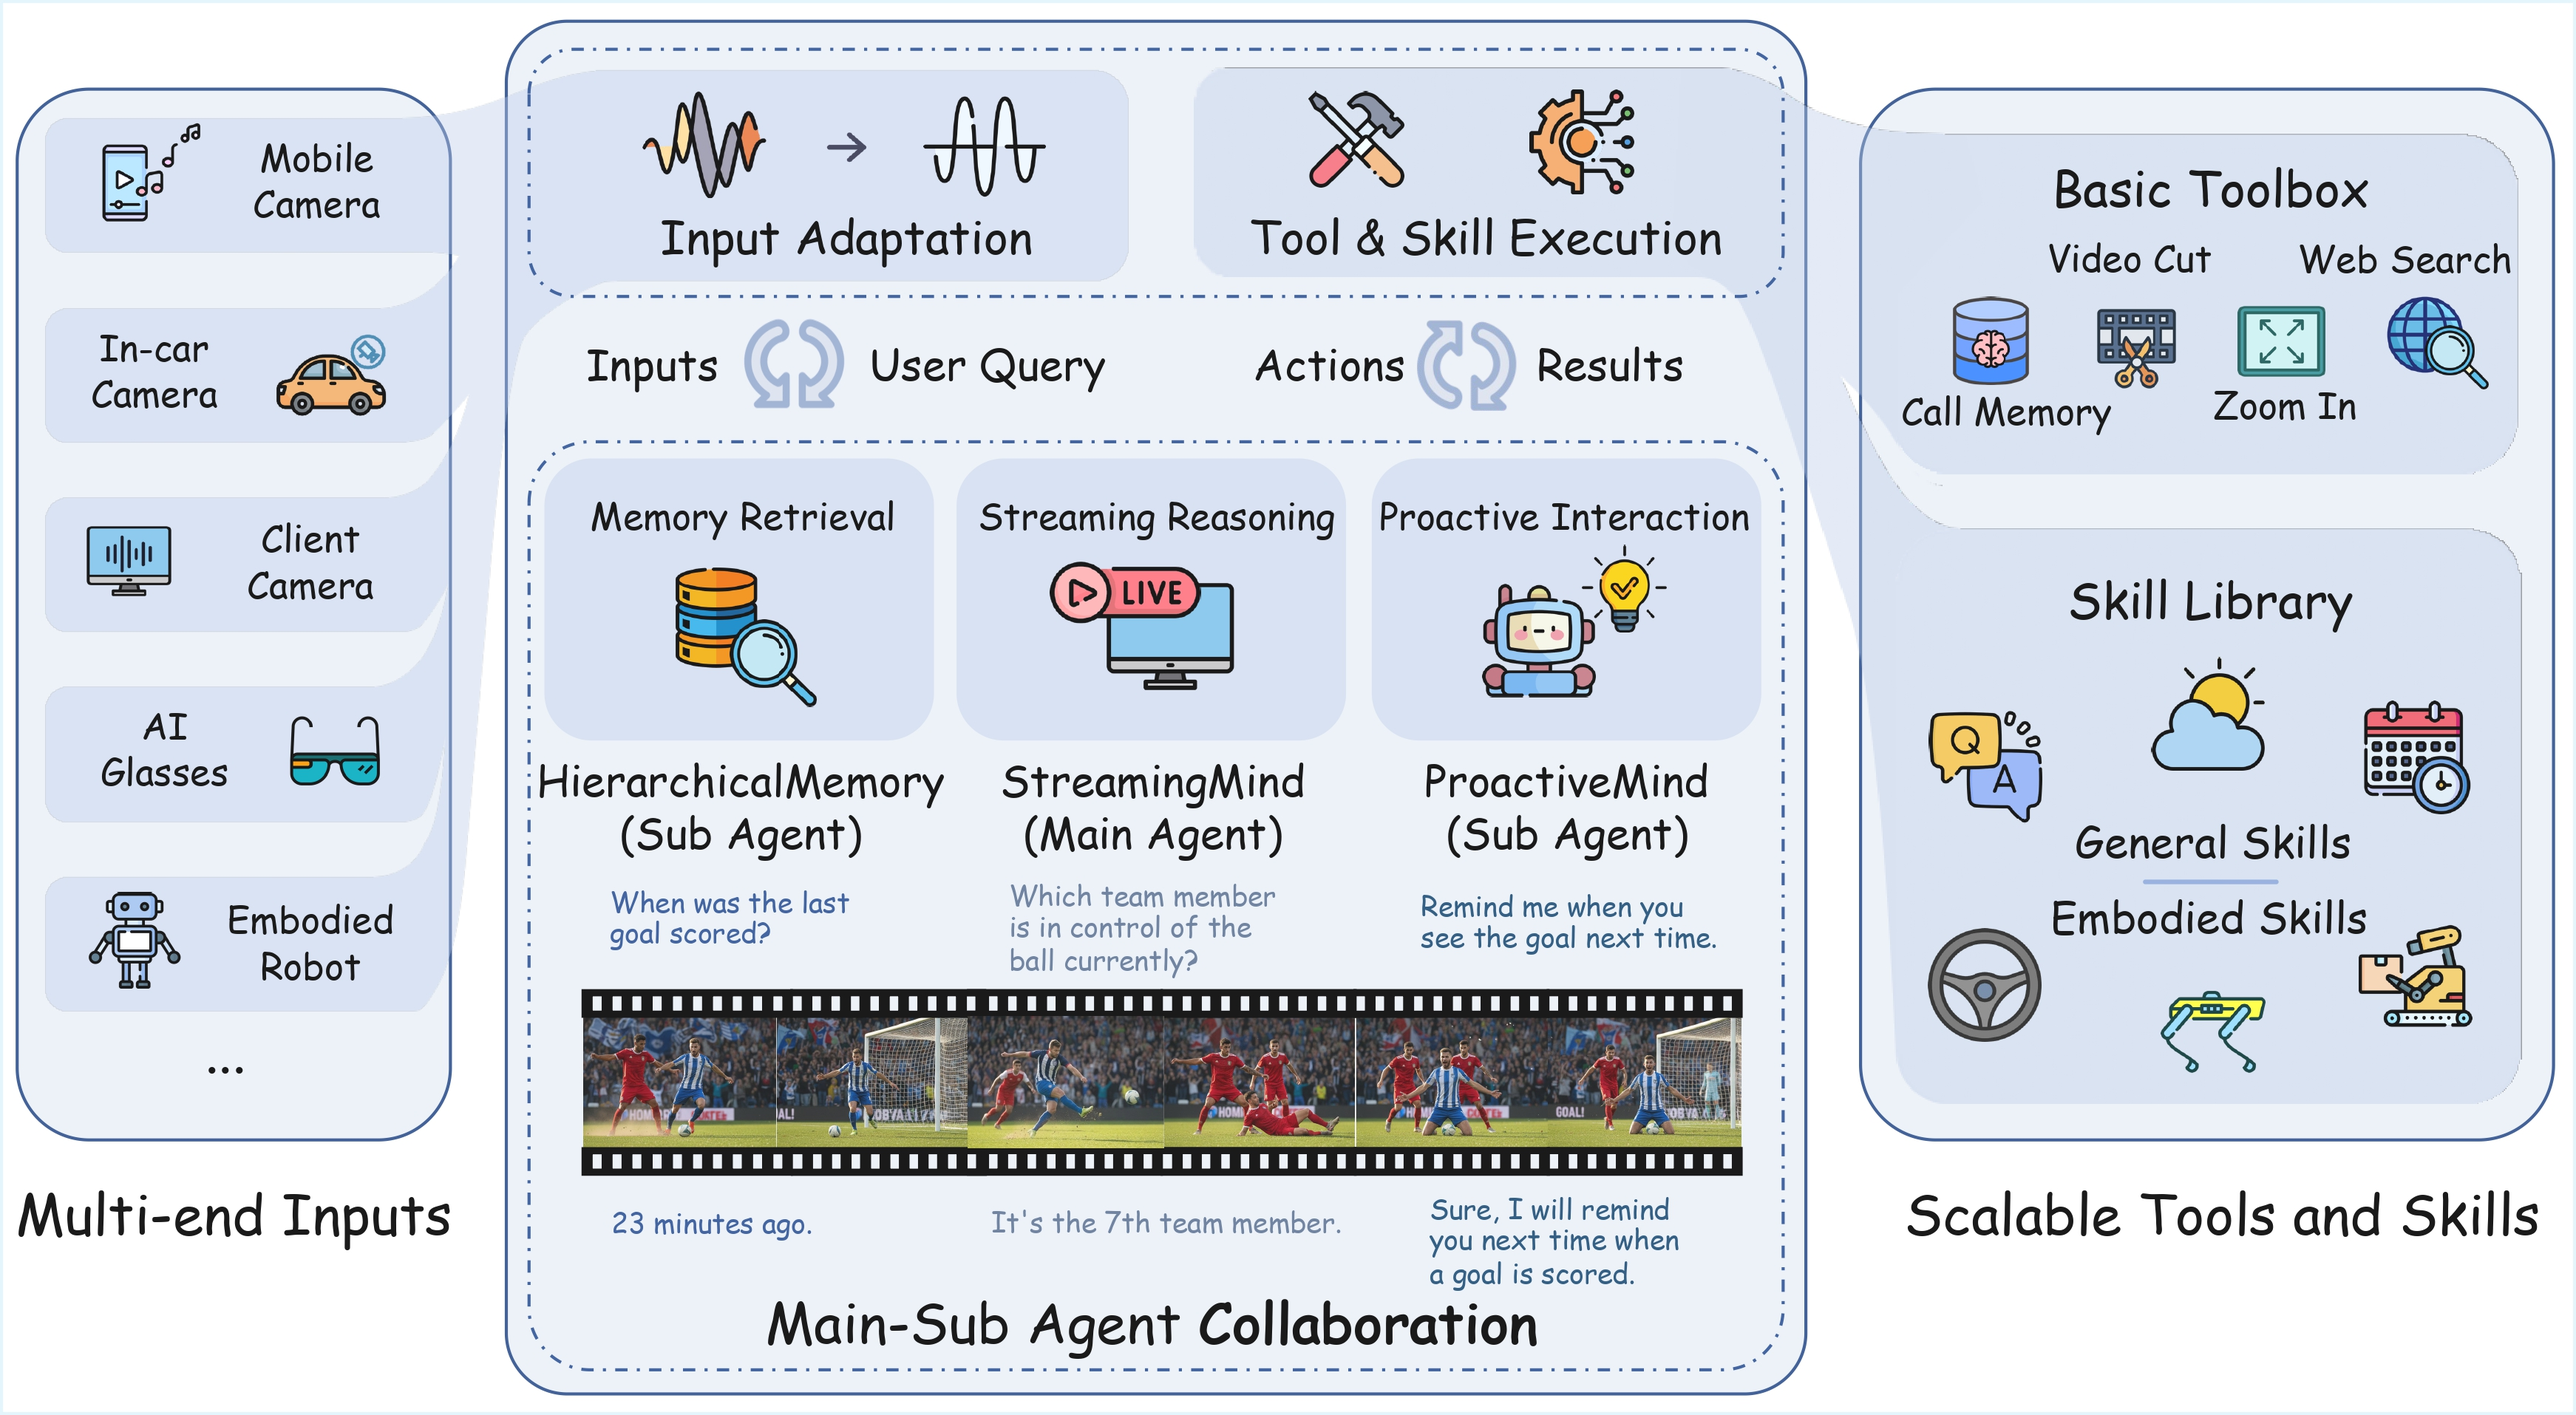
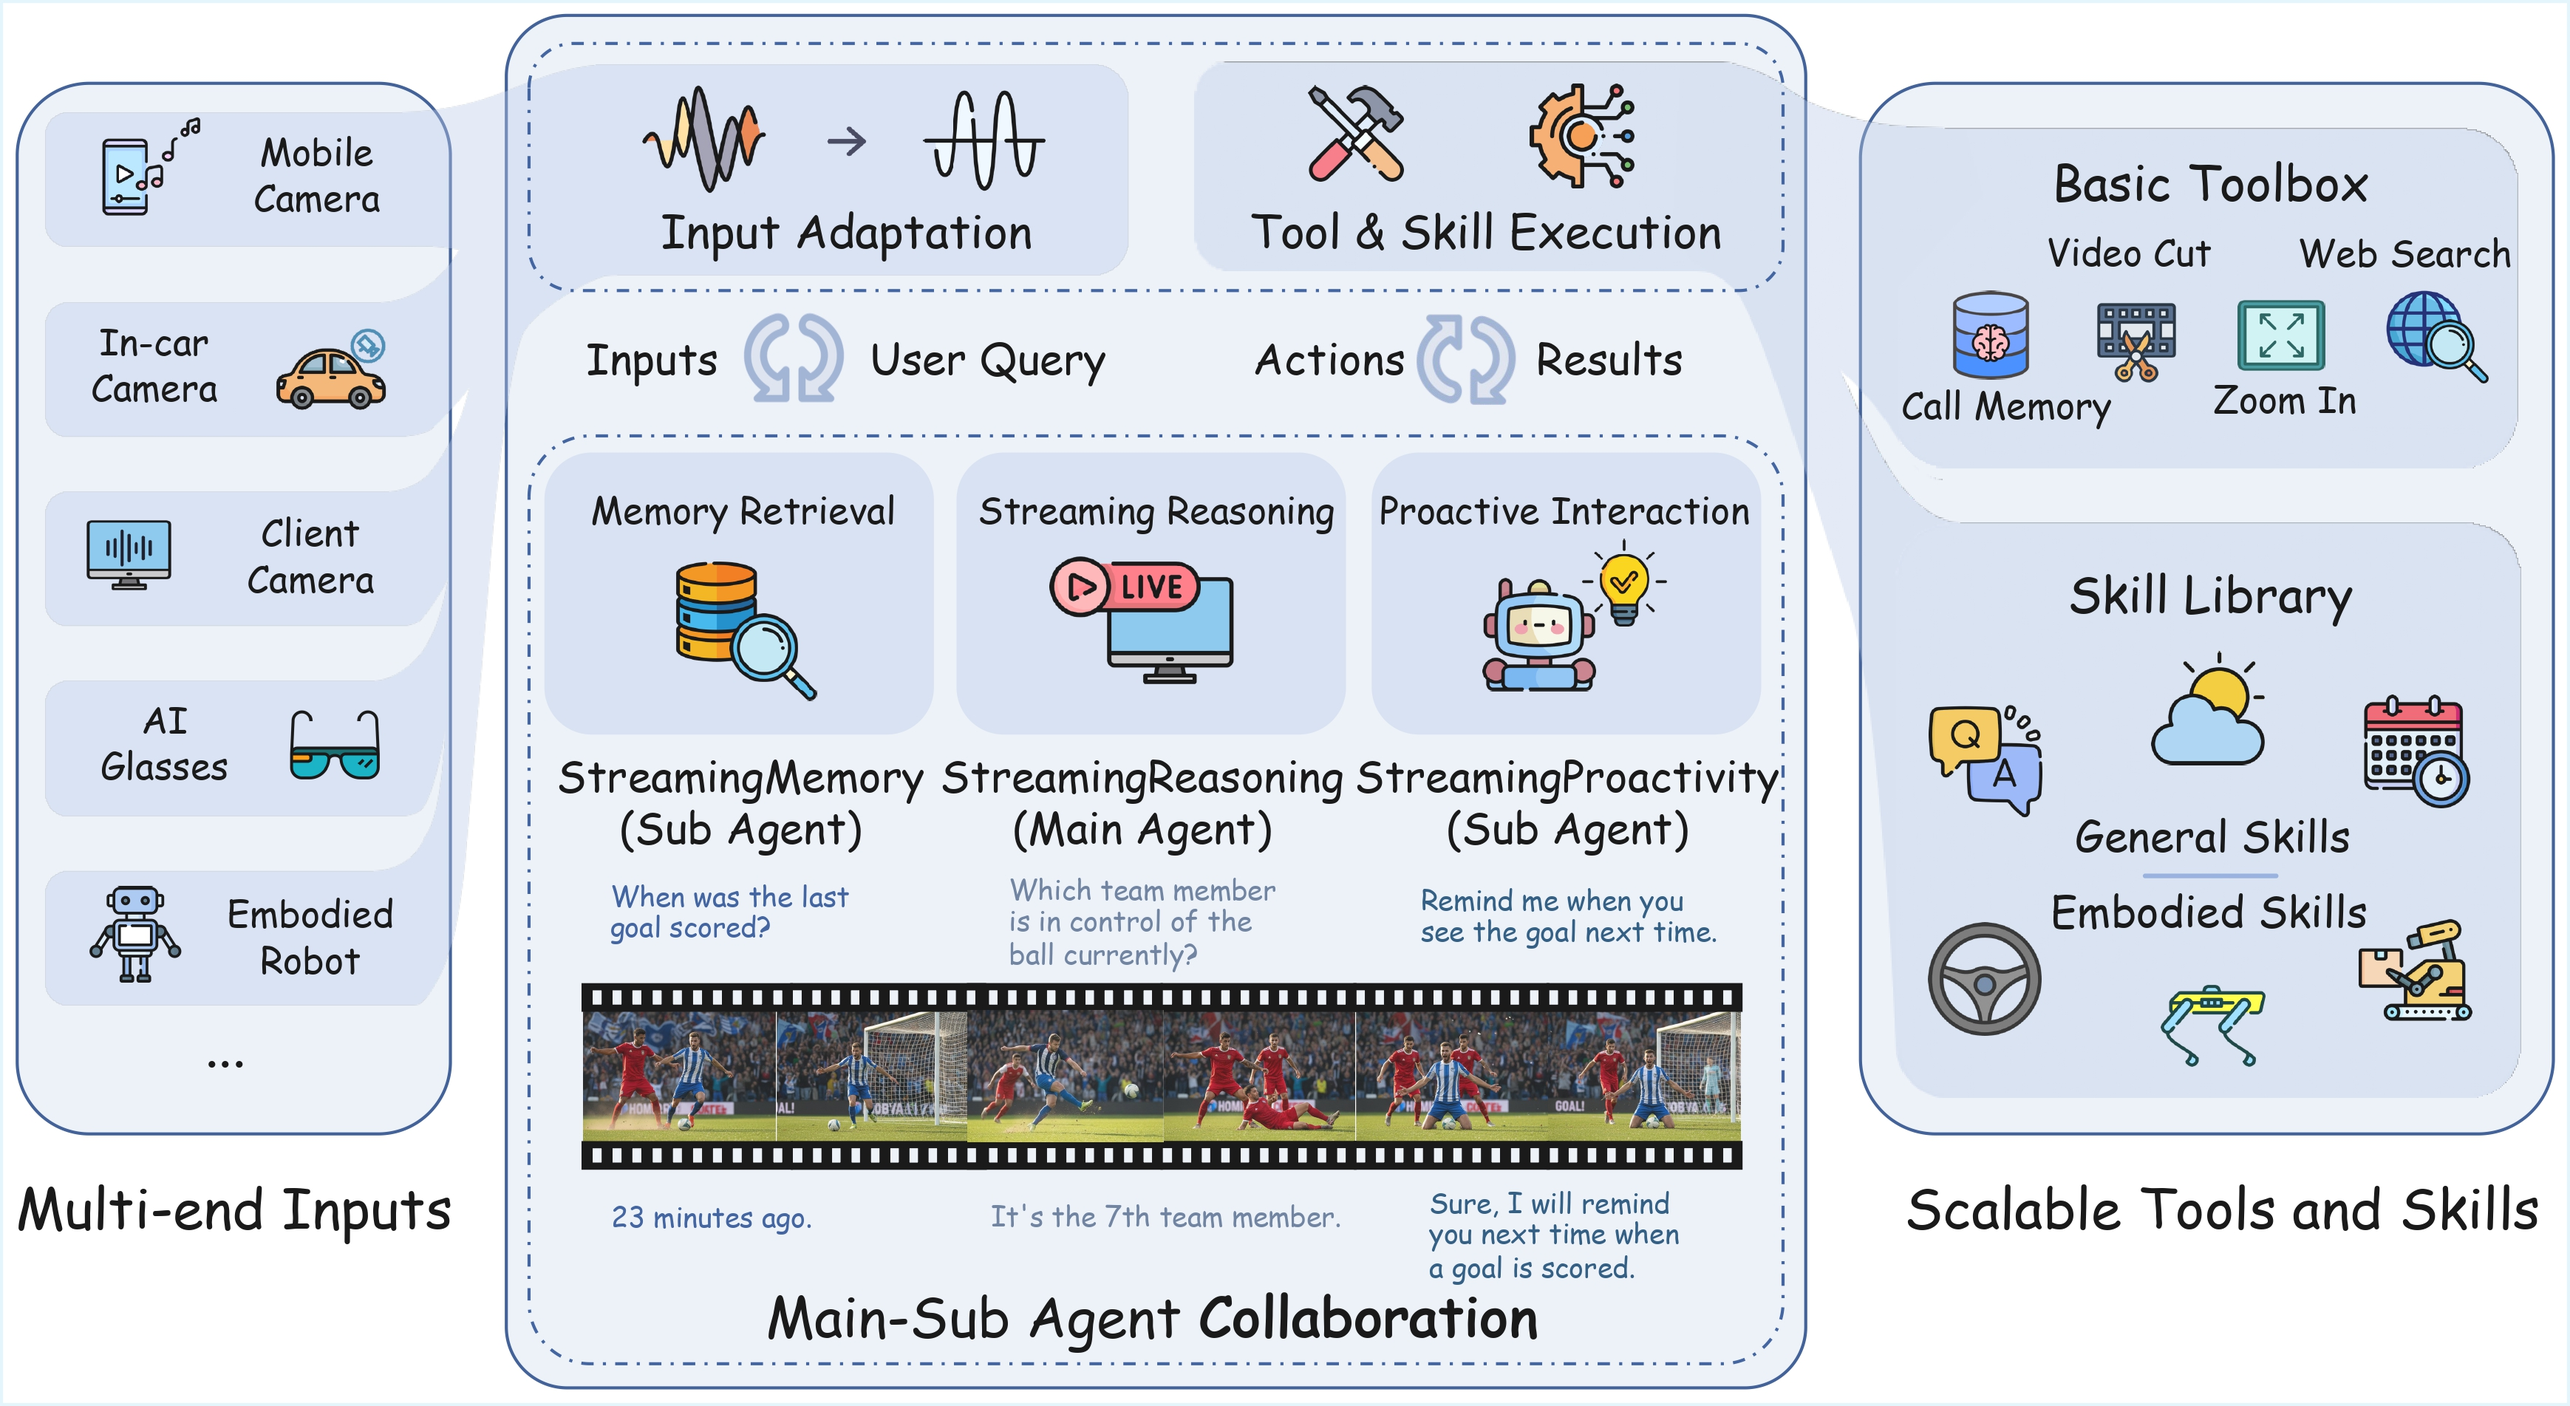
update agent names

diff --git a/index.html b/index.html
@@ -24,9 +24,9 @@
             </div>
             <div class="nav-menu">
                 <a href="#framework" class="nav-link">Framework</a>
-                <a href="#streamingmind" class="nav-link">StreamingMind</a>
-                <a href="#memory" class="nav-link">HierarchicalMemory</a>
-                <a href="#proactivemind" class="nav-link">ProactiveMind</a>
+                <a href="#streamingmind" class="nav-link">StreamingReasoning</a>
+                <a href="#memory" class="nav-link">StreamingMemory</a>
+                <a href="#proactivemind" class="nav-link">StreamingProactivity</a>
                 <a href="#tools" class="nav-link">Tools & Skills</a>
                 <a href="#citation" class="nav-link">Citation</a>
             </div>
@@ -118,45 +118,45 @@
             </div>
         </section>
 
-        <!-- StreamingMind Agent Section -->
+        <!-- StreamingReasoning Agent Section -->
         <section id="streamingmind" class="section">
             <div class="section-header">
-                <h2>StreamingMind Agent</h2>
+                <h2>StreamingReasoning Agent</h2>
                 <div class="section-divider"></div>
             </div>
 
             <div class="section-content">
                 <div class="section-text">
                     <p>
-                        StreamingMind targets streaming video understanding scenarios with continuous input and output. Its main goal is to achieve real-time perception, understanding, and reasoning under low-latency constraints, responding to user queries and producing results in real time.
+                        StreamingReasoning targets streaming video understanding scenarios with continuous input and output. Its main goal is to achieve real-time perception, understanding, and reasoning under low-latency constraints, responding to user queries and producing results in real time.
                     </p>
                     <ul class="features-list">
-                        <li><strong>Streaming Reasoning:</strong> StreamingMind enables real-time streaming video reasoning by chunking incoming video, using a dynamic sliding window to bound context, and leveraging a pruned streaming KV-cache for efficient incremental decoding, thereby maintaining low-latency understanding and response generation over long video streams.</li>
-                        <li><strong>Self-Planning Scheduling:</strong> StreamingMind dynamically parses user instructions to self-plan and schedule sub-agents, optionally retrieving hierarchical memory or delegating proactive interaction decisions, otherwise performing direct low-latency streaming multimodal reasoning.</li>
+                        <li><strong>Streaming Inference:</strong> StreamingReasoning enables real-time streaming video reasoning by chunking incoming video, using a dynamic sliding window to bound context, and leveraging a pruned streaming KV-cache for efficient incremental decoding, thereby maintaining low-latency understanding and response generation over long video streams.</li>
+                        <li><strong>Self-Planning Scheduling:</strong> StreamingReasoning dynamically parses user instructions to self-plan and schedule sub-agents, optionally retrieving hierarchical memory or delegating proactive interaction decisions, otherwise performing direct low-latency streaming multimodal reasoning.</li>
                     </ul>
                 </div>
                 <div class="section-image">
-                    <img src="images/streamingMind_agent.jpg" alt="StreamingMind Agent Architecture" id="streamingMindImg">
-                    <p class="figure-caption"><strong>Flowchart of SteamingMind’s streaming reasoning and self-planning scheduling.</strong></p>
+                    <img src="images/streamingReasoning_agent.jpg" alt="StreamingReasoning Agent Architecture" id="streamingMindImg">
+                    <p class="figure-caption"><strong>Flowchart of StreamingReasoning’s streaming inference and self-planning scheduling.</strong></p>
                 </div>
             </div>
         </section>
 
-        <!-- HierarchicalMemory Agent Section -->
+        <!-- StreamingMemory Agent Section -->
         <section id="memory" class="section">
             <div class="section-header">
-                <h2>HierarchicalMemory Agent</h2>
+                <h2>StreamingMemory Agent</h2>
                 <div class="section-divider"></div>
             </div>
 
             <div class="section-content">
                 <div class="section-image">
                     <img src="images/memory_agent.jpg" alt="HierarchicalMemory Agent Architecture" id="memoryImg">
-                    <p class="figure-caption"><strong>Flowchart of HierarchicalMemory’s memory storage, evolution, and retrieval algorithm.</strong></p>
+                    <p class="figure-caption"><strong>Flowchart of StreamingMemory’s memory storage, evolution, and retrieval algorithm.</strong></p>
                 </div>
                 <div class="section-text">
                     <p>
-                        HierarchicalMemory is introduced to provide evolving, efficient, multimodal, hierarchical long-term memory support for complex streaming video understanding tasks.
+                        StreamingMemory is introduced to provide evolving, efficient, multimodal, hierarchical long-term memory support for complex streaming video understanding tasks.
                     </p>
                     <ul class="features-list">
                         <li><strong>Multimodal Memory Storage:</strong> Store vision-centric multimodal memories as incremental memory nodes.</li>
@@ -168,34 +168,34 @@
             </div>
         </section>
 
-        <!-- ProactiveMind Agent Section -->
+        <!-- StreamingProactivity Agent Section -->
         <section id="proactivemind" class="section">
             <div class="section-header">
-                <h2>ProactiveMind Agent</h2>
+                <h2>StreamingProactivity Agent</h2>
                 <div class="section-divider"></div>
             </div>
 
             <div class="proactive-content">
                 <div class="proactive-text">
                     <p>
-                        ProactiveMind monitors streaming video for events and triggers timely proactive responses via training-free or training-based paradigms.
+                        StreamingProactivity monitors streaming video for events and triggers timely proactive responses via training-free or training-based paradigms.
                     </p>
                 </div>
 
                 <div class="proactive-images">
                     <div class="proactive-image-item">
                         <img src="images/proactiveMind_scenarios.jpg" alt="ProactiveMind Scenarios" id="proactiveScenariosImg">
-                        <p class="figure-caption"><strong>Interaction scenarios of the ProactiveMind agent:</strong> time-aware scenario and event-grounding scenario.</p>
+                        <p class="figure-caption"><strong>Interaction scenarios of the StreamingProactivity agent:</strong> time-aware scenario and event-grounding scenario.</p>
                     </div>
                     <div class="proactive-image-item">
                         <img src="images/proactiveMind_agent_schemes.jpg" alt="ProactiveMind Agent Schemes" id="proactiveSchemesImg">
-                        <p class="figure-caption"><strong>Implementation of the ProactiveMind agent:</strong> training-free adaptation and training-based adaptation.</p>
+                        <p class="figure-caption"><strong>Implementation of the StreamingProactivity agent:</strong> training-free adaptation and training-based adaptation.</p>
                     </div>
                 </div>
 
                 <div class="proactive-training">
                     <img src="images/proactiveMind_training.jpg" alt="ProactiveMind Training" id="proactiveTrainingImg">
-                    <p class="figure-caption"><strong>Flowchart of the training-based adaptation pipeline for the ProactiveMind agent.</strong></p>
+                    <p class="figure-caption"><strong>Flowchart of the training-based adaptation pipeline for the StreamingProactivity agent.</strong></p>
                 </div>
             </div>
         </section>
@@ -280,9 +280,9 @@
                 <h4>Links</h4>
                 <ul>
                     <li><a href="#framework">Framework</a></li>
-                    <li><a href="#streamingmind">StreamingMind</a></li>
-                    <li><a href="#memory">HierarchicalMemory</a></li>
-                    <li><a href="#proactivemind">ProactiveMind</a></li>
+                    <li><a href="#streamingmind">StreamingReasoning</a></li>
+                    <li><a href="#memory">StreamingMemory</a></li>
+                    <li><a href="#proactivemind">StreamingProactivity</a></li>
                     <li><a href="#tools">Tools & Skills</a></li>
                     <li><a href="#citation">Citation</a></li>
                 </ul>
